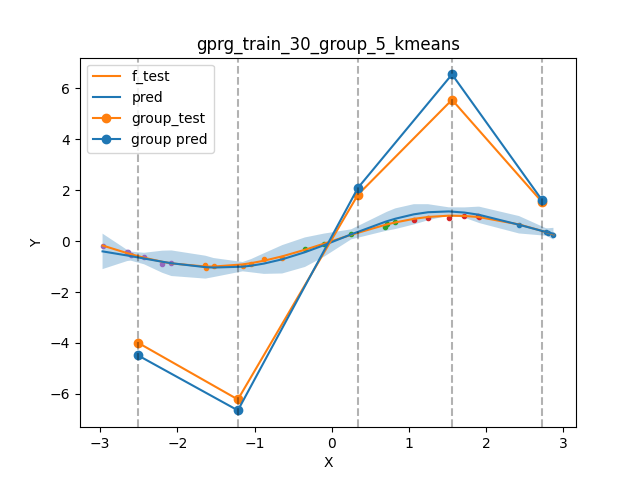
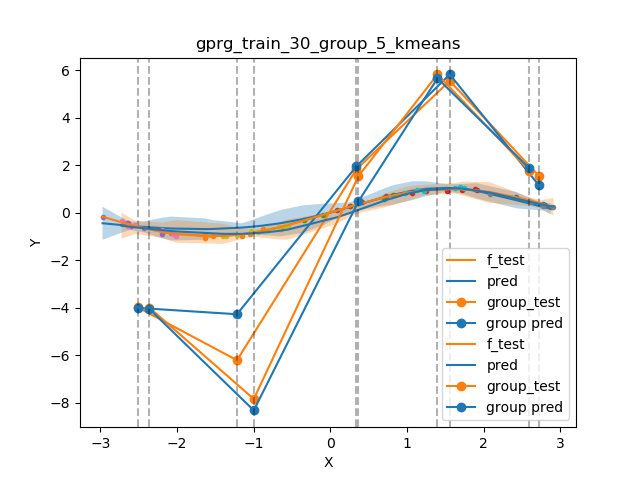
add non group gpucb, gpsr test

diff --git a/pipeline.py b/pipeline.py
@@ -10,7 +10,7 @@ from sklearn.cluster import KMeans
 # from gpr_group_test import generate_A, run_gprg
 from generate_data import generate_data_func
 
-np.random.seed(1996)
+# np.random.seed(1996)
 
 # 2021/Mar/06
 
@@ -27,12 +27,14 @@ np.random.seed(1996)
 class Pipeline():
     """GPR-G + form group by cluster + bandits algorithm (UCB/SR)
     """
-    def __init__(self, budget, num_arms, num_group, group_method = 'kmeans', fixed_noise = None):
+    def __init__(self, budget, num_arms, num_group, group_method = 'kmeans', noise = 0.1, fixed_noise = None):
         # TODO: implement fixed_noise 
         self.budget = budget
         self.num_arms = num_arms
         self.num_group = num_group
         self.fixed_noise = fixed_noise
+        self.group_method = group_method
+        self.noise = noise
 
         self.arms, self.f_train, self.Y_train = generate_data_func(self.num_arms ,self.num_arms ,dim=dim, X_train_range_low = X_train_range_low, X_train_range_high = X_train_range_high, x_shift = x_shift, func_type='sin')
 
@@ -46,8 +48,8 @@ class Pipeline():
 
     def sample(self, t):
         # sample group reward and add it into rewards record
-        sample = self.sample_groups[t,:].dot(self.f_train) + np.random.randn()* noise
-        print(sample)
+        sample = self.sample_groups[t,:].dot(self.f_train) + np.random.randn()* self.noise
+        # print(sample)
 
         self.rewards.append(sample)
 
@@ -70,13 +72,17 @@ class Pipeline():
         # construct matrix A \in R^{g * n}
         # each row represents one group
         # the arms in the group are set to 1, otherwise 0
-        kmeans = KMeans(n_clusters=self.num_group, init = 'k-means++', random_state= 0).fit(self.arms)
-        group_idx = kmeans.labels_
-        A = np.zeros((self.num_group, self.num_arms))
-        for idx,i in enumerate(group_idx):
-            A[i, idx] = 1
-        self.group_centers = kmeans.cluster_centers_
-        return A
+        if self.group_method == 'kmeans':
+            kmeans = KMeans(n_clusters=self.num_group, init = 'k-means++', random_state= 0).fit(self.arms)
+            group_idx = kmeans.labels_
+            A = np.zeros((self.num_group, self.num_arms))
+            for idx,i in enumerate(group_idx):
+                A[i, idx] = 1
+            self.group_centers = kmeans.cluster_centers_
+            return A
+        elif self.group_method == 'identity':
+            self.group_centers = self.arms
+            return np.eye(N = self.num_arms)
 
     def evaluation(self):
         # TODO: how to evaluate the pipeline?
@@ -105,9 +111,9 @@ class Pipeline():
 # 3. (we might want to cook up posterior std as a guideline for designing sample size)
 # 4. another (open) questions is: how to deal with arm set which are changing (I imagine in our setting, later on we would like to dynamic form the groups)? Now in SR, the sample size is pre-allocated so only works for fixed set of arms. 
 
-class SR(Pipeline):
-    def __init__(self, budget, num_arms, num_group, group_method = 'kmeans', fixed_noise = None):
-        super().__init__(budget, num_arms, num_group, group_method, fixed_noise)
+class SR_Fixed_Group(Pipeline):
+    def __init__(self, budget, num_arms, num_group, group_method = 'kmeans', noise = 0.1, fixed_noise = None):
+        super().__init__(budget, num_arms, num_group, group_method, noise, fixed_noise)
         self.barlogK = 1.0/(1.0 + 1)
         # REVIEW: for now, we form the "arm" of pre-defined fixed groups
         for i in range(1, self.num_group):
@@ -151,7 +157,7 @@ class SR(Pipeline):
             # print('active set: ', len(self.active_set))
             # sample_count += num_samples * len(self.active_set)
             # print('sample count: ', sample_count)
-            print('num samples: ', num_samples)
+            # print('num samples: ', num_samples)
             # step 1
             for i in self.active_set:
                 for j in range(num_samples):
@@ -161,23 +167,37 @@ class SR(Pipeline):
                     t += 1
             self.update()
             
-            print('group mu: ', self.group_mu)
-            sorted_group_mu_idx = np.argsort(self.group_mu.reshape(self.num_group,))
-            print('sorted group mu idx: ', sorted_group_mu_idx)
-            for idx in np.sort(sorted_group_mu_idx)[::-1]:
-                if idx in self.active_set:
-                    # remove the group in active set with smallest pred mean
-                    print('remove idx: ', idx)
-                    self.active_set.remove(idx)
+            # print('group mu: ', self.group_mu)
+            # TODO: remove the smallest one in active set
+            group_mu = self.group_mu.copy()
+            while True:
+                min_idx = np.argmin(group_mu.reshape(len(group_mu),))
+                if min_idx in self.active_set:
+                    self.active_set.remove(min_idx)
                     break
+                else:
+                    group_mu[min_idx] = 1e5 # set to a very large value
+
+            # sorted_group_mu_idx = np.argsort(self.group_mu.reshape(self.num_group,))
+            # print('sorted group mu idx: ', sorted_group_mu_idx)
+            # for i, idx in enumerate(np.sort(sorted_group_mu_idx)[::-1]):
+            #     if idx in self.active_set:
+            #         # remove the group in active set with smallest pred mean
+            #         print('remove idx: ', i)
+            #         self.active_set.remove(i)
+            #         break
                 
-            print('active set: ', self.active_set)
+            # print('active set: ', self.active_set)
 
             n_last_phase = n_current_phase
 
         self.rec_set = self.active_set
+        print(np.asarray(self.f_train)[np.asarray(self.A[np.asarray(list(self.rec_set))][0], dtype=bool)])
         # only works for 1.0 = 1
         assert len(self.rec_set) == 1.0
+
+        rec_idx = np.argmax(self.mu)
+        print('rec arm index: ', rec_idx, ' with mean: ', self.f_train[rec_idx])
 
 # It is more natural to use UCB type of algorithm, similar to GPUCB
 # so we test UCB algorithm
@@ -197,7 +217,7 @@ class SR(Pipeline):
 #    the group forming change all the time and based on the prediction
 # 3. follow similar idea as decision tree: form big groups (e.g. >= 100 arms in each group) at the init round, then in each group, ...
 
-class UCB(Pipeline):
+class UCB_Fixed_Group(Pipeline):
     def max_ucb(self, t, beta = 1):
         # fill in the t^th sample group
         # the arms in the sample are set to 1, otherwise 0
@@ -210,7 +230,7 @@ class UCB(Pipeline):
             rec_idx = np.random.choice(list(range(self.num_group)))
         else:
             rec_idx = np.argmax(self.group_mu + beta * self.group_sigma)
-        print(rec_idx)
+        # print(rec_idx)
         self.sample_groups[t,:] = self.A[rec_idx,:]
         # self.sample_groups[t, :] = xxx
 
@@ -223,7 +243,10 @@ class UCB(Pipeline):
             self.max_ucb(t)
             self.sample(t)
             self.update()     
-            
+
+        rec_idx = np.argmax(self.mu)
+        print('rec arm index: ', rec_idx, ' with mean: ', self.f_train[rec_idx])
+       
 # Test
 # We consider the same setting as shown in gpr_group_test.py
 
@@ -237,30 +260,47 @@ x_shift = 0
 # X_test_range_low = -3.5 + x_shift
 # X_test_range_high = 3.5 + x_shift
 
-X_train_range_low = -3. 
-X_train_range_high = 3. 
+X_train_range_low = -10. 
+X_train_range_high = 10. 
 
 budget = 50
-num_arms = 30
+num_arms = 100
 # num_train = X_train.shape[0]
-num_group = 5
+num_group = 10
 dim = 1
-noise = 1
-run_UCB = False
-run_SR = True
+group_noise = 1 # now group label only has group noise
+indi_noise = 0.1 
+run_UCB_Fixed_Group = True
+run_SR_Fixed_Group = True
+
+run_UCB_non_Group = True
+run_SR_non_Group = False
 
 # REVIEW: why we want a UCB type of algorithm? why does the uncertainty important? why we want to sample one arm multiple times?
 # ? when the space is too large too cover (# num_arms > # num_budget)
 # ? when the var of one arm is too large 
 
-if run_UCB:
-    ucb = UCB(budget = budget, num_arms = num_arms, num_group = num_group, group_method = 'kmeans', fixed_noise = None)
-    ucb.simulate()
-    ucb.evaluation()
+if run_UCB_Fixed_Group:
+    print('GP-UCB Fixed Group:')
+    ucb_fg = UCB_Fixed_Group(budget = budget, num_arms = num_arms, num_group = num_group, group_method = 'kmeans', noise = group_noise, fixed_noise = None)
+    ucb_fg.simulate()
+    ucb_fg.evaluation()
 
-if run_SR:
-    sr = SR(budget = budget, num_arms = num_arms, num_group = num_group, group_method = 'kmeans', fixed_noise = None)
-    sr.simulate()
-    sr.evaluation()
+if run_SR_Fixed_Group:
+    print('GP SR Fixed Group:')
+    sr_fg = SR_Fixed_Group(budget = budget, num_arms = num_arms, num_group = num_group, group_method = 'kmeans', noise = group_noise, fixed_noise = None)
+    sr_fg.simulate()
+    sr_fg.evaluation()
 
+if run_UCB_non_Group:
+    print('GP-UCB non group:')
+    ucb_ng = UCB_Fixed_Group(budget = budget, num_arms = num_arms, num_group = num_arms, group_method = 'identity', noise = indi_noise, fixed_noise = None)
+    ucb_ng.simulate()
+    ucb_ng.evaluation()
+
+if run_SR_non_Group:
+    print('GP SR non Group:')
+    sr_ng = SR_Fixed_Group(budget = budget, num_arms = num_arms, num_group = num_arms, group_method = 'identity', noise = indi_noise, fixed_noise = None)
+    sr_ng.simulate()
+    sr_ng.evaluation()
 

diff --git a/gpr_group_test.py b/gpr_group_test.py
@@ -102,13 +102,13 @@ def generate_A(grouping_method, num_group = 30):
         # TODO: does not work for now
         # Initialise the GP clusterer
         A = networks.MlpA(X_train.shape[1], num_group)
-        cluster = gp_ent_cluster.GPEntCluster(noise, num_group, X_train, X_train, A=A)
+        cluster = gp_ent_cluster.GPEntCluster(noise, num_group, X_train, X_test, A=A)
 
         # Minimise the entropy using gradient tape
         c = 0
         while c<=500:
             _, entropy = cluster.train_step(X_train, True, True)
-            A = cluster.A(X).numpy()
+            A = cluster.A(X_train).numpy()
             c += 1
         plt.matshow(np_A.T @ np_A)
         plt.savefig('group_kernel.pdf')
